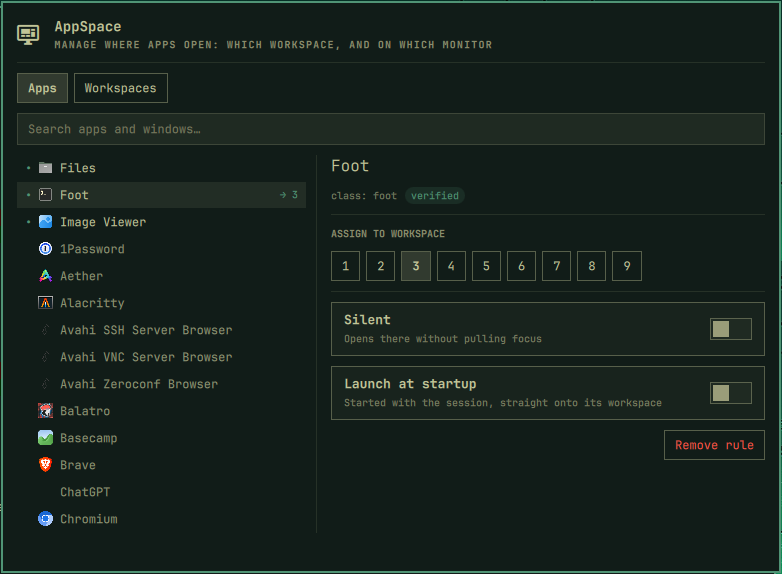
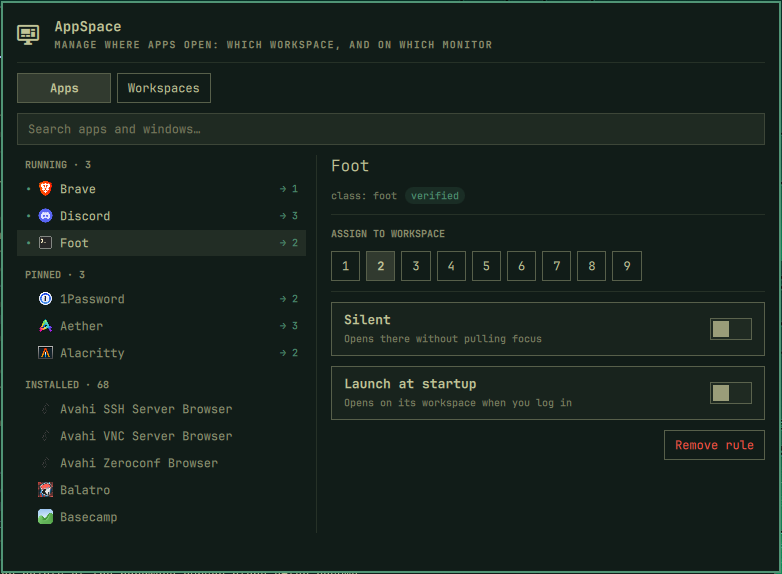
README: fresh screenshots of both views

diff --git a/README.md b/README.md
@@ -15,6 +15,8 @@ and if the app is already running its window moves there immediately.
 in three sections: *Running*, *Pinned* (has a rule, not open) and *Installed*. Assign a workspace, toggle *Silent* and
 *Launch at startup*, remove the rule.
 
+![Workspaces view](preview-workspaces.png)
+
 **Workspaces** — one row per workspace: which monitor it lives on, which apps are
 pinned to it, and whether it is always present. `+ Add workspace` creates the next
 free one as always-present. Switch it to *On demand* and it stays listed, so you
